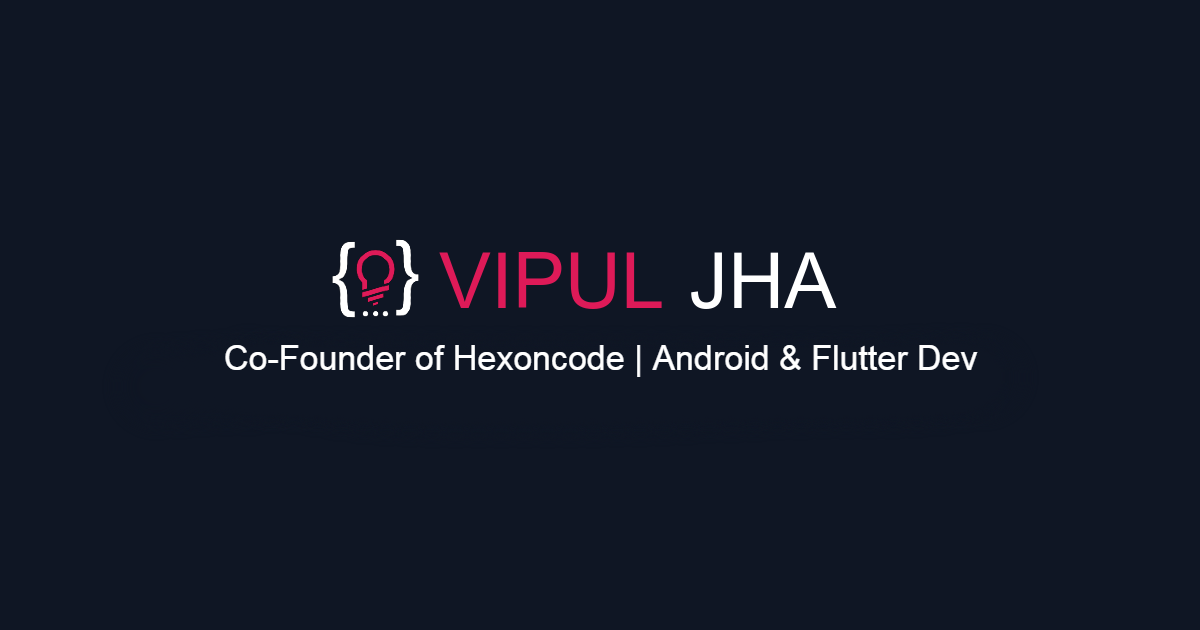
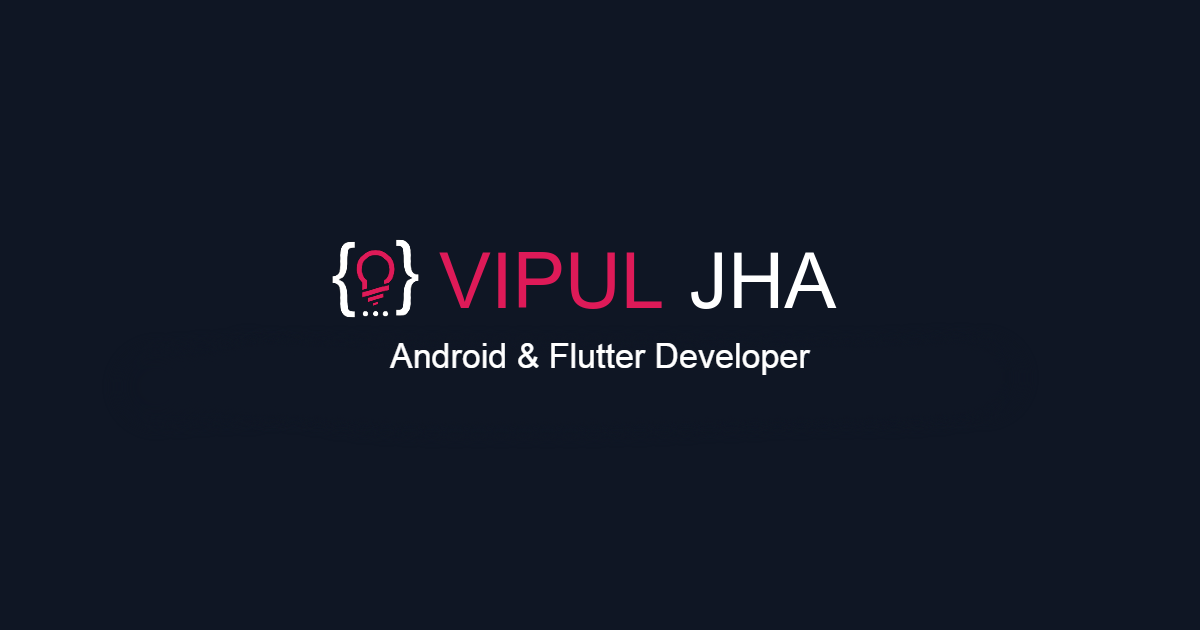
meta: Update Meta image and description

Changed region(s): [[0.185, 0.5429, 0.8325, 0.6032]]

diff --git a/src/pages/_document.js b/src/pages/_document.js
@@ -32,15 +32,15 @@ export default class MyDocument extends Document {
       <Html lang='en-GB'>
         <Head>
           <link href="https://fonts.googleapis.com/css2?family=Space+Grotesk:wght@300;400;500;600;700&display=swap" rel="stylesheet" />
-          <meta name="title" content="Vipul Jha - Co-founder, Hexoncode" />
-          <meta name="description" content="Hey there, This is Vipul Jha aka lordarcadius. I am the Co-founder of Hexoncode. I work on Apps, Kernels, ROMs, and Scripts." />
+          <meta name="title" content="Vipul Jha - Android & Flutter Dev" />
+          <meta name="description" content="Hey there, This is Vipul Jha aka lordarcadius. I am an Android & Flutter developer who also works on ROMs, Kernels, & Scripts" />
           <meta property="og:type" content="website" />
-          <meta property="og:title" content="Vipul Jha - Co-founder, Hexoncode" />
-          <meta property="og:description" content="Hey there, This is Vipul Jha aka lordarcadius. I am the Co-founder of Hexoncode. I work on Apps, Kernels, ROMs, and Scripts." />
+          <meta property="og:title" content="Vipul Jha - Android & Flutter Dev" />
+          <meta property="og:description" content="Hey there, This is Vipul Jha aka lordarcadius. I am an Android & Flutter developer who also works on ROMs, Kernels, & Scripts" />
           <meta property="og:image" content="https://www.vipuljha.com/images/banner.png" />
           <meta property="twitter:card" content="summary_large_image" />
-          <meta property="twitter:title" content="Vipul Jha - Co-founder, Hexoncode" />
-          <meta property="twitter:description" content="Hey there, This is Vipul Jha aka lordarcadius. I am the Co-founder of Hexoncode. I work on Apps, Kernels, ROMs, and Scripts." />
+          <meta property="twitter:title" content="Vipul Jha - Android & Flutter Dev" />
+          <meta property="twitter:description" content="Hey there, This is Vipul Jha aka lordarcadius. I am an Android & Flutter developer who also works on ROMs, Kernels, & Scripts" />
           <meta property="twitter:image" content="https://www.vipuljha.com/images/banner.png" />
         </Head>
         <body>
